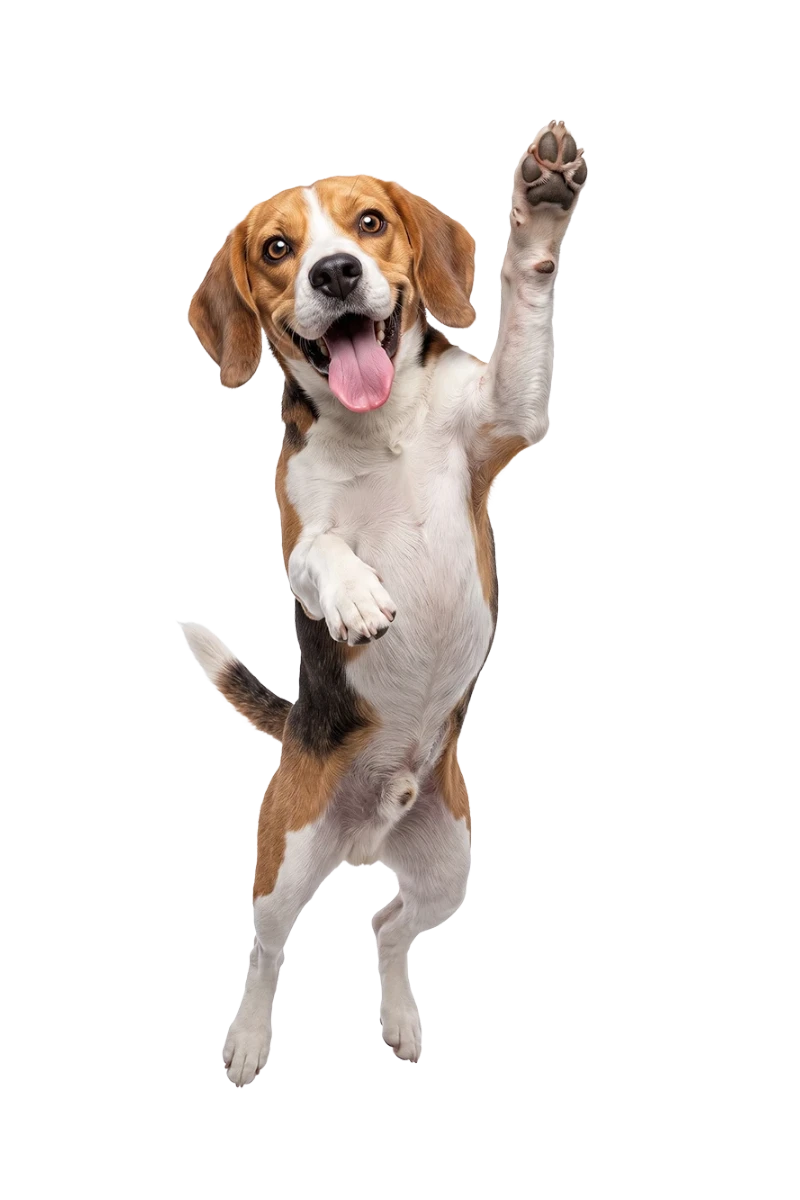
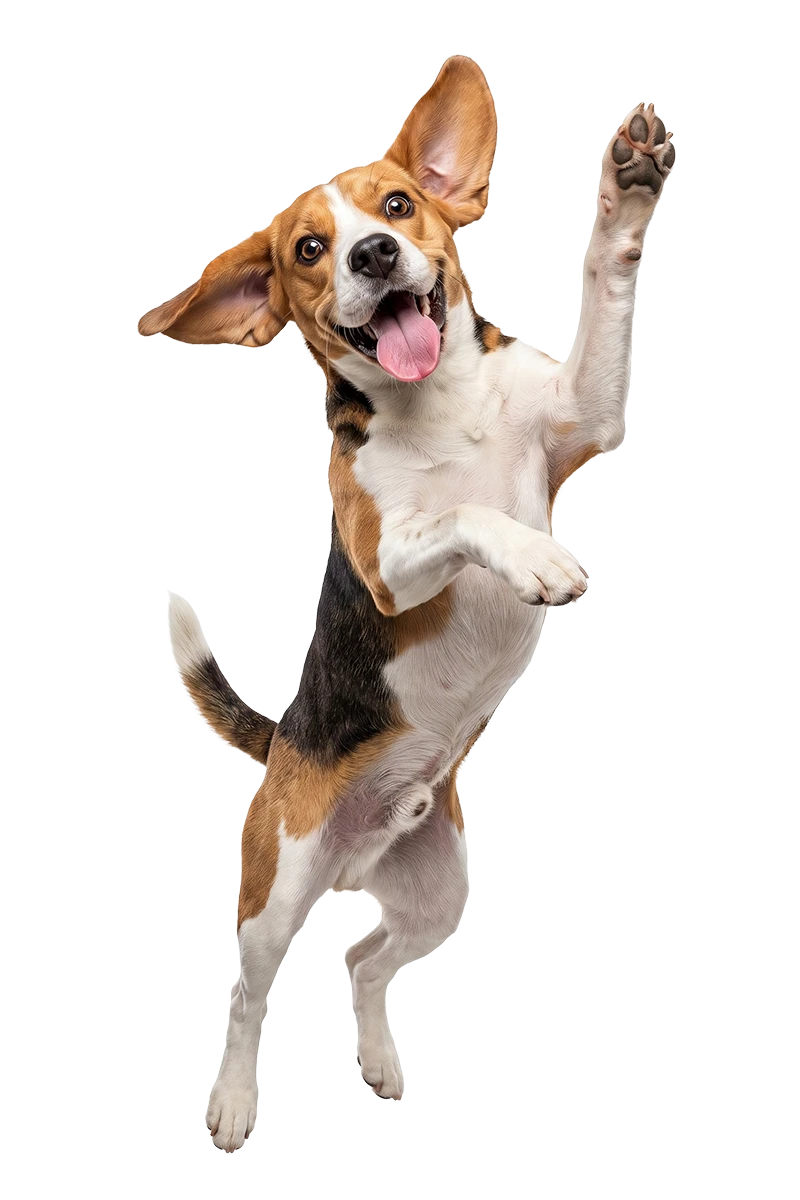
feat: 서버 컴포넌트(RSC) 도입을 통한 public/jump 이미지 폴더 동적 스캔 및 PetJumpClient 구조화

Changed region(s): [[0.1562, 0.0308, 0.8438, 0.9558]]

diff --git a/app/page.tsx b/app/page.tsx
@@ -1,148 +1,19 @@
-"use client";
-
-import { useEffect, useRef, useState } from "react";
-import gsap from "gsap";
-
-const PET_IMAGES = [
-  "jump_Abyssinian.webp",
-  "jump_Akita.webp",
-  "jump_American_Curl.webp",
-  "jump_Beagle.webp",
-  "jump_Bengal.webp",
-  "jump_Bichon.webp",
-  "jump_Bombay.webp",
-  "jump_Boston_Terrier.webp",
-  "jump_British_Shorthair.webp",
-  "jump_Bull_Terrier.webp",
-  "jump_Calico.webp",
-  "jump_Chihuahua.webp",
-  "jump_Cornish_Rex.webp",
-  "jump_French_Bulldog.webp",
-  "jump_Korean_Shorthair.webp",
-  "jump_Maltese.webp",
-  "jump_Maltipoo.webp",
-  "jump_Pomeranian.webp",
-  "jump_Pug.webp",
-  "jump_Shih_Tzu.webp",
-  "jump_Welsh_Corgi.webp"
-];
+import fs from "fs";
+import path from "path";
+import PetJumpClient from "./PetJumpClient";
 
 export default function Home() {
-  const petRef = useRef<HTMLDivElement>(null);
-  const [currentPet, setCurrentPet] = useState<string>("");
-  const [cacheBuster, setCacheBuster] = useState<string>("");
-  const activeTimeline = useRef<gsap.core.Timeline | null>(null);
+  const jumpDir = path.join(process.cwd(), "public", "jump");
+  let petImages: string[] = [];
 
-  useEffect(() => {
-    // 마운트 시 첫 번째 펫 이미지를 임의로 선택하고 캐시 버스터용 타임스탬프 설정
-    const initialPet = PET_IMAGES[Math.floor(Math.random() * PET_IMAGES.length)];
-    setCurrentPet(initialPet);
-    setCacheBuster(String(Date.now()));
-  }, []);
+  try {
+    // public/jump 폴더 내의 이미지 파일(.webp, .png, .jpg, .jpeg, .gif, .svg)들만 필터링하여 수집
+    petImages = fs
+      .readdirSync(jumpDir)
+      .filter((file) => /\.(webp|png|jpe?g|gif|svg)$/i.test(file));
+  } catch (error) {
+    console.error("Failed to read public/jump directory:", error);
+  }
 
-  const handleImageLoad = () => {
-    if (!petRef.current) return;
-
-    // 만약 이전 애니메이션이 아직 실행 중이라면 강제로 중단 및 메모리 정리
-    if (activeTimeline.current) {
-      activeTimeline.current.kill();
-    }
-
-    const element = petRef.current;
-    
-    // 점프 높이, 회전각, 좌우 이동값에 랜덤 요소를 주어 역동적인 모션 생성
-    const targetY = -280 - Math.random() * 180; // -280px ~ -460px 사이 튀어오름
-    const randomRotation = -20 + Math.random() * 40; // -20도 ~ 20도 회전
-    const randomX = -35 + Math.random() * 70; // 캐리어 안쪽 20px을 유지하기 위해 좌우 편차를 -35px ~ 35px로 제한
-
-    const tl = gsap.timeline({
-      onComplete: () => {
-        // 애니메이션 완료(낙하) 후 이전 펫과 다른 이미지를 선택하도록 루프 구성
-        let nextPet = currentPet;
-        while (nextPet === currentPet) {
-          const randomIndex = Math.floor(Math.random() * PET_IMAGES.length);
-          nextPet = PET_IMAGES[randomIndex];
-        }
-        
-        // 0.2초간 숨겨진 상태로 대기 후 다음 펫 이미지 설정
-        // 이미지 src가 교체되면 브라우저 다운로드 후 자동으로 onLoad가 다시 발생하여 루프가 순환함
-        gsap.delayedCall(0.2, () => {
-          setCurrentPet(nextPet);
-        });
-      }
-    });
-
-    activeTimeline.current = tl;
-
-    // 이미지가 100% 로드되어 렌더링될 준비가 끝난 상태에서 애니메이션 작동
-    tl.fromTo(element,
-      { 
-        y: 400, 
-        x: 0,
-        rotation: 0,
-        opacity: 0,
-        scale: 0.85
-      },
-      { 
-        y: targetY, 
-        x: randomX,
-        rotation: randomRotation,
-        opacity: 1,
-        scale: 1,
-        duration: 0.9, 
-        ease: "expo.out" 
-      }
-    )
-    .to(element,
-      { 
-        y: 400, 
-        x: randomX * 1.2, // 낙하 시 약간의 관성 적용
-        rotation: randomRotation * 1.5,
-        opacity: 0,
-        scale: 0.85,
-        duration: 0.8, 
-        ease: "expo.in" 
-      },
-      "+=0.05" // 정점에서 아주 짧게 머무른 후 낙하
-    );
-  };
-
-  useEffect(() => {
-    return () => {
-      if (activeTimeline.current) {
-        activeTimeline.current.kill();
-      }
-    };
-  }, []);
-
-  return (
-    <div className="relative w-screen h-screen overflow-hidden bg-white flex flex-col justify-end items-center">
-      {/* 튀어오르는 동물 이미지 레이어 (z-index 10) */}
-      {currentPet && cacheBuster && (
-        <div 
-          ref={petRef} 
-          className="absolute bottom-0 z-10 origin-bottom select-none pointer-events-none"
-          style={{ willChange: "transform, opacity", transform: "translateY(400px)", opacity: 0 }}
-        >
-          {/* eslint-disable-next-line @next/next/no-img-element */}
-          <img 
-            src={`/jump/${currentPet}?v=${cacheBuster}`} 
-            alt="Jumping Pet" 
-            className="w-[200px] h-auto object-contain"
-            onLoad={handleImageLoad}
-          />
-        </div>
-      )}
-
-      {/* 여행용 캐리어 이미지 레이어 (z-index 20) */}
-      <div className="absolute bottom-0 z-20 select-none pointer-events-none">
-        {/* eslint-disable-next-line @next/next/no-img-element */}
-        <img 
-          src={cacheBuster ? `/rimowa.webp?v=${cacheBuster}` : "/rimowa.webp"} 
-          alt="Rimowa Carrier" 
-          className="w-[280px] sm:w-[320px] h-auto object-contain block translate-y-2"
-        />
-      </div>
-    </div>
-  );
+  return <PetJumpClient petImages={petImages} />;
 }

diff --git a/app/PetJumpClient.tsx b/app/PetJumpClient.tsx
@@ -1,0 +1,133 @@
+"use client";
+
+import { useEffect, useRef, useState } from "react";
+import gsap from "gsap";
+
+interface PetJumpClientProps {
+  petImages: string[];
+}
+
+export default function PetJumpClient({ petImages }: PetJumpClientProps) {
+  const petRef = useRef<HTMLDivElement>(null);
+  const [currentPet, setCurrentPet] = useState<string>("");
+  const [cacheBuster, setCacheBuster] = useState<string>("");
+  const activeTimeline = useRef<gsap.core.Timeline | null>(null);
+
+  useEffect(() => {
+    if (petImages.length === 0) return;
+    // 마운트 시 첫 번째 펫 이미지를 임의로 선택하고 캐시 버스터용 타임스탬프 설정
+    const initialPet = petImages[Math.floor(Math.random() * petImages.length)];
+    setCurrentPet(initialPet);
+    setCacheBuster(String(Date.now()));
+  }, [petImages]);
+
+  const handleImageLoad = () => {
+    if (!petRef.current || petImages.length === 0) return;
+
+    // 만약 이전 애니메이션이 아직 실행 중이라면 강제로 중단 및 메모리 정리
+    if (activeTimeline.current) {
+      activeTimeline.current.kill();
+    }
+
+    const element = petRef.current;
+    
+    // 점프 높이, 회전각, 좌우 이동값에 랜덤 요소를 주어 역동적인 모션 생성
+    const targetY = -280 - Math.random() * 180; // -280px ~ -460px 사이 튀어오름
+    const randomRotation = -20 + Math.random() * 40; // -20도 ~ 20도 회전
+    const randomX = -35 + Math.random() * 70; // 캐리어 안쪽 20px을 유지하기 위해 좌우 편차를 -35px ~ 35px로 제한
+
+    const tl = gsap.timeline({
+      onComplete: () => {
+        // 애니메이션 완료(낙하) 후 이전 펫과 다른 이미지를 선택하도록 루프 구성
+        let nextPet = currentPet;
+        if (petImages.length > 1) {
+          while (nextPet === currentPet) {
+            const randomIndex = Math.floor(Math.random() * petImages.length);
+            nextPet = petImages[randomIndex];
+          }
+        } else {
+          nextPet = petImages[0];
+        }
+        
+        // 0.2초간 숨겨진 상태로 대기 후 다음 펫 이미지 설정
+        // 이미지 src가 교체되면 브라우저 다운로드 후 자동으로 onLoad가 다시 발생하여 루프가 순환함
+        gsap.delayedCall(0.2, () => {
+          setCurrentPet(nextPet);
+        });
+      }
+    });
+
+    activeTimeline.current = tl;
+
+    // 이미지가 100% 로드되어 렌더링될 준비가 끝난 상태에서 애니메이션 작동
+    tl.fromTo(element,
+      { 
+        y: 400, 
+        x: 0,
+        rotation: 0,
+        opacity: 0,
+        scale: 0.85
+      },
+      { 
+        y: targetY, 
+        x: randomX,
+        rotation: randomRotation,
+        opacity: 1,
+        scale: 1,
+        duration: 0.9, 
+        ease: "expo.out" 
+      }
+    )
+    .to(element,
+      { 
+        y: 400, 
+        x: randomX * 1.2, // 낙하 시 약간의 관성 적용
+        rotation: randomRotation * 1.5,
+        opacity: 0,
+        scale: 0.85,
+        duration: 0.8, 
+        ease: "expo.in" 
+      },
+      "+=0.05" // 정점에서 아주 짧게 머무른 후 낙하
+    );
+  };
+
+  useEffect(() => {
+    return () => {
+      if (activeTimeline.current) {
+        activeTimeline.current.kill();
+      }
+    };
+  }, []);
+
+  return (
+    <div className="relative w-screen h-screen overflow-hidden bg-white flex flex-col justify-end items-center">
+      {/* 튀어오르는 동물 이미지 레이어 (z-index 10) */}
+      {currentPet && cacheBuster && (
+        <div 
+          ref={petRef} 
+          className="absolute bottom-0 z-10 origin-bottom select-none pointer-events-none"
+          style={{ willChange: "transform, opacity", transform: "translateY(400px)", opacity: 0 }}
+        >
+          {/* eslint-disable-next-line @next/next/no-img-element */}
+          <img 
+            src={`/jump/${currentPet}?v=${cacheBuster}`} 
+            alt="Jumping Pet" 
+            className="w-[200px] h-auto object-contain"
+            onLoad={handleImageLoad}
+          />
+        </div>
+      )}
+
+      {/* 여행용 캐리어 이미지 레이어 (z-index 20) */}
+      <div className="absolute bottom-0 z-20 select-none pointer-events-none">
+        {/* eslint-disable-next-line @next/next/no-img-element */}
+        <img 
+          src={cacheBuster ? `/rimowa.webp?v=${cacheBuster}` : "/rimowa.webp"} 
+          alt="Rimowa Carrier" 
+          className="w-[280px] sm:w-[320px] h-auto object-contain block translate-y-2"
+        />
+      </div>
+    </div>
+  );
+}